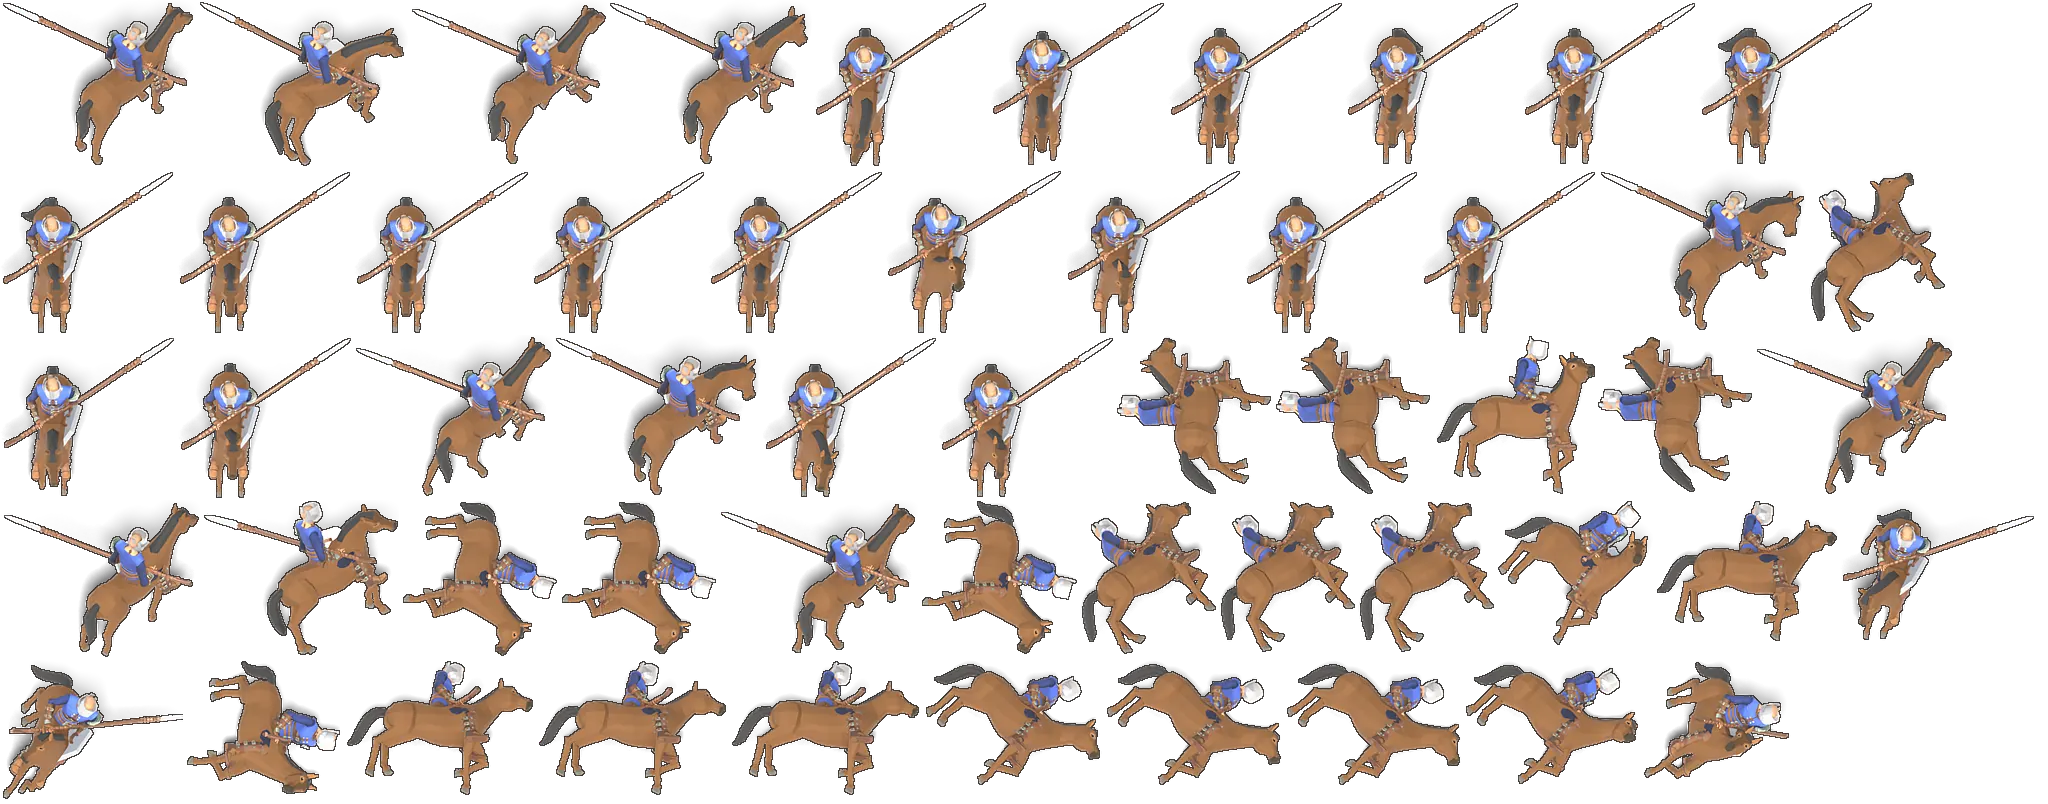
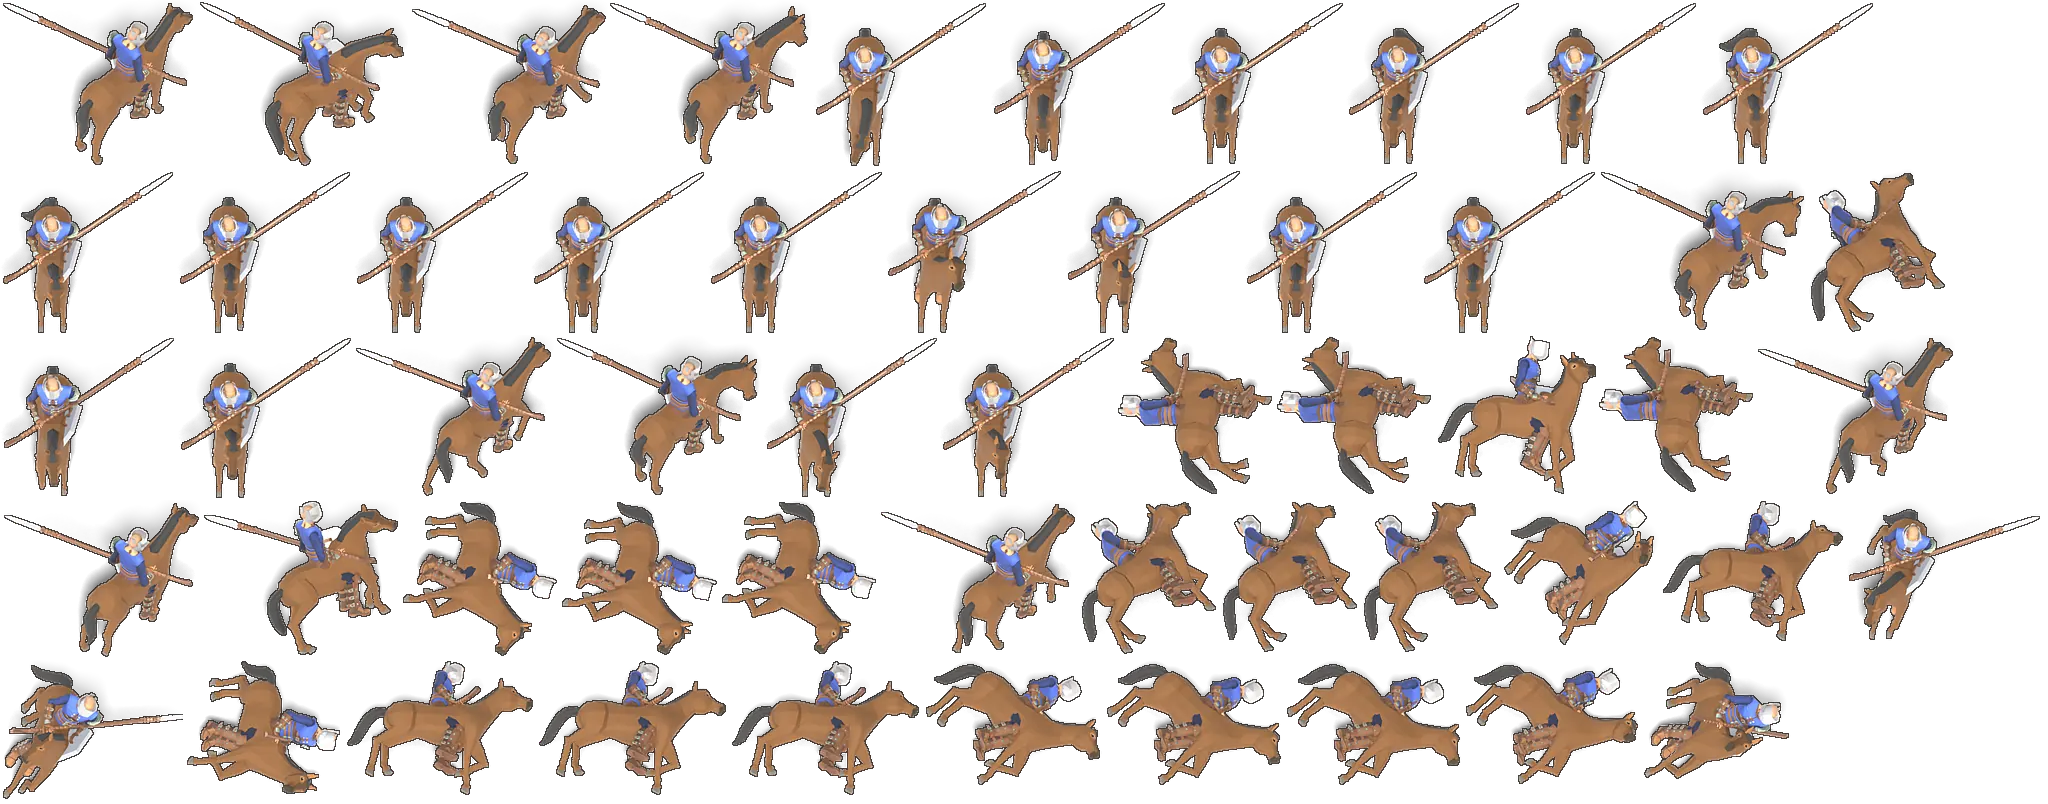
v16 wip: cavalier rider legs astride (repacked); drop stale behemoth page; tools + cfgs

diff --git a/tools/prep_h2.py b/tools/prep_h2.py
@@ -1,0 +1,97 @@
+# compose a UAL-rigged humanoid: blender -b -P prep_h2.py -- cfg.json
+import bpy,sys,json,math,mathutils,bmesh,os
+C=json.load(open(sys.argv[sys.argv.index('--')+1]))
+UAL='/workspace/hd/ual2/Universal Animation Library[Standard]/Unreal-Godot/UAL1_Standard.glb'
+bpy.ops.wm.read_factory_settings(use_empty=True)
+def imp(p):
+    b=set(bpy.data.objects);bpy.ops.import_scene.gltf(filepath=p);return [o for o in bpy.data.objects if o not in b]
+base=imp(UAL);A=[o for o in base if o.type=='ARMATURE'][0]
+for o in base:
+    if o.type=='MESH':bpy.data.objects.remove(o)
+for part in C['parts']:
+    objs=imp(part['f']);arms=[o for o in objs if o.type=='ARMATURE']
+    for o in objs:
+        if o.type!='MESH':continue
+        nm=o.name
+        if 'Icosphere' in nm or any(d in nm for d in part.get('drop',[])) or (part.get('only') and not any(k in nm for k in part['only'])):
+            bpy.data.objects.remove(o);continue
+        mw=o.matrix_world.copy();o.parent=A;o.matrix_world=mw
+        for m in o.modifiers:
+            if m.type=='ARMATURE':m.object=A
+        if part.get('dropbones'):
+            gi={g.index:g.name for g in o.vertex_groups};bm=bmesh.new();bm.from_mesh(o.data);dl=bm.verts.layers.deform.active
+            if dl:
+                kill=[v for v in bm.verts if v[dl] and gi[max(v[dl].items(),key=lambda x:x[1])[0]].startswith(tuple(part['dropbones']))]
+                bmesh.ops.delete(bm,geom=kill,context='VERTS');bm.to_mesh(o.data)
+            bm.free()
+        if part.get('headonly'):
+            gi={g.index:g.name for g in o.vertex_groups};bm=bmesh.new();bm.from_mesh(o.data);dl=bm.verts.layers.deform.active
+            kill=[v for v in bm.verts if not v[dl] or not gi[max(v[dl].items(),key=lambda x:x[1])[0]].lower().startswith(('head','neck'))]
+            bmesh.ops.delete(bm,geom=kill,context='VERTS');bm.to_mesh(o.data);bm.free()
+    for ar in arms:bpy.data.objects.remove(ar)
+# texture swaps
+for m in bpy.data.materials:
+    for k,tex in C.get('texswap',{}).items():
+        if m.name.startswith(k) and m.node_tree:
+            for n in m.node_tree.nodes:
+                if n.type=='TEX_IMAGE' and n.image and ('BaseColor' in n.image.name or n.image.name.endswith('_Dark')) and not any(x in n.image.name for x in ('Normal','Rough','ORM')):
+                    n.image=bpy.data.images.load(tex);print('SWAP',m.name)
+# props from glb files attached to bones
+for w in C.get('props',[]):
+    if w.get('prim'):
+        ko=[]
+        for pr in w['prim']:
+            t=pr['t'];
+            if t=='cyl':bpy.ops.mesh.primitive_cylinder_add(vertices=10,radius=1,depth=2)
+            elif t=='cone':bpy.ops.mesh.primitive_cone_add(vertices=10,radius1=1,radius2=pr.get('r2',0),depth=2)
+            elif t=='torus':bpy.ops.mesh.primitive_torus_add(major_radius=1,minor_radius=pr.get('minor',0.15),major_segments=20,minor_segments=8)
+            else:bpy.ops.mesh.primitive_uv_sphere_add(segments=14,ring_count=8,radius=1)
+            o=bpy.context.active_object;o.scale=pr.get('s',(1,1,1));o.location=pr.get('loc',(0,0,0));o.rotation_euler=[math.radians(a) for a in pr.get('rot',(0,0,0))]
+            bpy.ops.object.transform_apply(location=True,rotation=True,scale=True);bpy.ops.object.shade_smooth()
+            mt=bpy.data.materials.new(pr.get('m','PropMat'));mt.use_nodes=True;bs=mt.node_tree.nodes['Principled BSDF']
+            bs.inputs['Base Color'].default_value=(*pr['col'],1);bs.inputs['Roughness'].default_value=pr.get('rough',0.8)
+            if pr.get('emit'):bs.inputs['Emission Color'].default_value=(*pr['col'],1);bs.inputs['Emission Strength'].default_value=pr['emit']
+            o.data.materials.append(mt);ko.append(o)
+        bpy.ops.object.select_all(action='DESELECT')
+        for o in ko:o.select_set(True)
+        bpy.context.view_layer.objects.active=ko[0];bpy.ops.object.join();src=ko[0];src.name=w['n'];ko=[src]
+    else:
+        ko=imp(w['src']);src=[o for o in ko if o.name.split('.')[0]==w['n']][0]
+    src.parent=None;src.modifiers.clear();src.matrix_world=mathutils.Matrix.Identity(4)
+    if src.vertex_groups:src.vertex_groups.clear()
+    if w.get('center'):
+        vs=[v.co for v in src.data.vertices];c=sum(vs,mathutils.Vector())/len(vs)
+        for v in src.data.vertices:v.co-=c
+    src.parent=A;src.parent_type='BONE';src.parent_bone=w['bone']
+    bl=A.data.bones[w['bone']].length
+    sc_=w.get('s',1)
+    if w.get('len'):
+        vs=[v.co for v in src.data.vertices];md=max(max(v[i] for v in vs)-min(v[i] for v in vs) for i in range(3));sc_=w['len']/md
+    src.rotation_mode='XYZ';src.location=mathutils.Vector(w.get('loc',[0,0,0]))+mathutils.Vector((0,-bl,0));src.rotation_euler=[math.radians(x) for x in w.get('rot',[0,0,0])];src.scale=(sc_,)*3
+    src['keep']=1
+    for o in ko:
+        if not o.get('keep'):bpy.data.objects.remove(o)
+W=C.get('wings')
+if W:
+    mat=bpy.data.materials.new('Wing');mat.use_nodes=True;bs=mat.node_tree.nodes['Principled BSDF'];bs.inputs['Base Color'].default_value=(*W.get('col',[0.95,0.93,0.88]),1);bs.inputs['Roughness'].default_value=0.75
+    if 'Subsurface Weight' in bs.inputs:pass
+    bpy.context.view_layer.update()
+    bh=A.matrix_world@A.pose.bones[W['bone']].head;sp=W.get('span',1.0);n=W.get('n',8)
+    for side in (1,-1):
+        for i in range(n):
+            t=i/(n-1);ang=math.radians(-15+t*95);L=sp*(1.0-0.45*t)*(1-0.25*abs(t-0.35))
+            d=mathutils.Vector((side*math.cos(ang),0.35+0.1*t,math.sin(ang))).normalized()
+            root=bh+mathutils.Vector((side*0.06,W.get('back',0.14),W.get('up',0.05)))
+            bpy.ops.mesh.primitive_uv_sphere_add(segments=12,ring_count=6,radius=1)
+            f=bpy.context.active_object;f.name=f'Wing_{side}_{i}'
+            q=mathutils.Vector((1,0,0)).rotation_difference(d)
+            f.rotation_mode='QUATERNION';f.rotation_quaternion=q;f.scale=(L/2,0.11*sp*(1-0.3*t),0.022*sp)
+            f.location=root+d*(L/2)
+            f.data.materials.append(mat)
+            bpy.context.view_layer.update();mw=f.matrix_world.copy()
+            f.parent=A;f.parent_type='BONE';f.parent_bone=W['bone'];bpy.context.view_layer.update();f.matrix_world=mw;f['keep']=1
+    bpy.context.view_layer.update()
+for o in list(bpy.data.objects):
+    if o.type=='MESH' and o.parent is None and not o.get('keep'):bpy.data.objects.remove(o)
+bpy.ops.export_scene.gltf(filepath=C['out'],export_format='GLB',export_animation_mode='ACTIONS')
+print('PREP_DONE',[o.name for o in bpy.data.objects])
